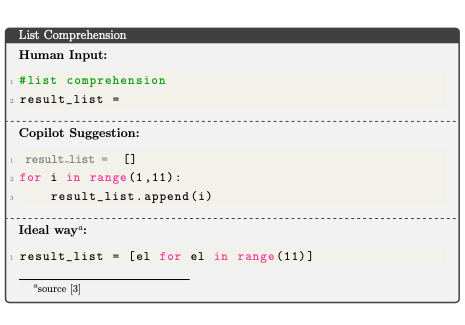
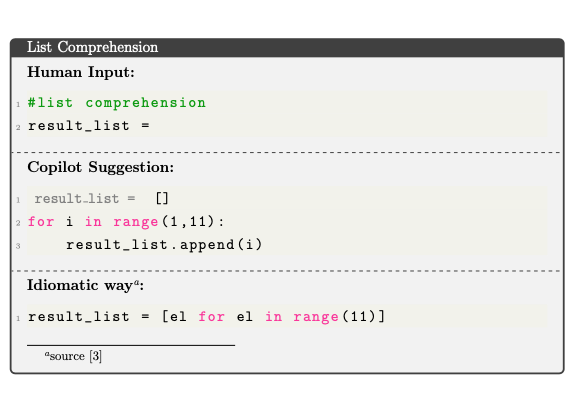
c1,2,3 first draft

Changed region(s): [[0.0, 0.0615, 0.9935, 0.9538]]

diff --git a/chapters/3/chapter_idioms.tex b/chapters/3/chapter_idioms.tex
@@ -1,0 +1,41 @@
+\startchapter{Language Idioms}
+\label{chapter:idioms}
+
+\section{Introduction}
+In this chapter, We begin by explaining our approach to \textbf{RQ-1.1} (How do \cct{} manage programming idioms?). To achieve this, we conduct an exploratory study to find if \cct{} tools like Copilot suggest the optimal way in their suggestions. It is shown that Copilot's base model Codex performs best in python programming language~\cite{copilot}. So, we chose to test Copilot on python programming language idioms.
+
+In section~\ref{methodology}, we describe our sampling approach to collecting python idioms and evaluation method used to compare copilot suggestions to the optimal way listed in python idioms. In section~\ref{secidioms}, we show the results of the study comparing Copilot suggestions and idioms in python programming language. We observe that Copilot performs poorly in suggesting the optimal way in its suggestions. 
+\section{Pythonic Idioms}
+The definition for the term \emph{Pythonic} in Python found in official Python glossary\footnote{\url{https://docs.python.org/3/glossary.html\#term-pythonic}} as follows:
+
+\begin{quote}
+    An idea or piece of code which closely follows the most common idioms of the Python language, rather than implementing code using concepts common to other languages. For example, a common idiom in Python is to loop over all elements of an iterable using a for statement. Many other languages do not have this type of construct, so people unfamiliar with Python sometimes use a numerical counter instead, as opposed to the cleaner, pythonic method.
+\end{quote}
+
+This definition indicates a broad meaning, referring to both concrete code, but also \emph{Ideas} in general sense. Many Python developers argue that coding the \emph{pythonic way} is the most accepted way to code by the Python community~\cite{Alexandru2018}. We consider an \emph{idiom} to be any reusable abstraction that makes Python code more readable by shortening or added syntactic sugar. Idioms can also be more efficient than a basic solution and some idioms are both more readable and more efficient.
+
+We sampled idioms from the work of Alexandru et al.~\cite{Alexandru2018}, which identified idioms from presentations given by renowned Python developers that frequently mention Idioms, e.g., Hettinger~\cite{hettinger} and Jeff Knupp~\cite{knupp} and popular Python books, such as ``Pro Python''~\cite{Alchin2010}, ``Fluent Python''~\cite{fluent}, ``Expert Python Programming''~\cite{expert}.
+
+\section{Methodology}
+\label{methodology}
+In this Section, We explain the methodology we used to address \textbf{RQ-1.1} (How do \cct{} manage programming idioms?), including how the idioms were sampled (Section~\ref{sampling}), what was the input for Copilot (Section~\ref{input}) and how Copilot suggestions are evaluated (Section~\ref{evaluation}). All of the following analysis was carried out using Copilot extension in Visual Studio Code. We use the most recent stable release of Copilot extension (version number 1.30.6165) in Visual Studio Code.
+
+\subsection{Sampling Approach}
+\label{sampling}
+To give the best chance for Copilot to suggest the optimal way, we sampled the top ten most frequent idioms used in open source projects. So that, Copilot will have the optimal way more frequently in its training data. However, Copilot is closed source and we cannot determine if the frequency of code snippet in training data affects Copilot suggestions in any way. Research by GitHub shows that Copilot can sometimes recite from its training data in ``generic contexts"\footnote{\url{https://github.blog/2021-06-30-github-copilot-research-recitation/}}, which may lead to potential challenges like licence infringements~(shown in section~\ref{challenges}). Sampling the most frequently used idioms will also help understand if Copilot can recite idioms present in its training data~(GitHub public repositories), which is a desirable feature for \cct{}.
+
+\subsection{Study Setup}
+
+\subsubsection{Input to Copilot}
+\label{input}
+The input to Copilot consisted of the idiom title in the first line as a comment to provide context, and the input was restricted to being able to derive the ideal way~(idiomatic way) from the input. This is done to ensure Copilot is making the decision to suggest the good/bad way in its suggestions and not being restricted by the input to suggest a certain way. 
+
+This input style also mimics a novice user, who is unaware of the idioms and useful \cct{} should drive the novice user to use idiomatic ways to perform a task in their codebases.
+
+\subsubsection{Evaluation of Copilot suggestions}
+\label{evaluation}
+We considered Copilot suggested the optimal way if Copilot suggested the idiomatic way in the first suggestion, we assume that \cct{} like Copilot are productivity tools and user should be saving time as opposed to writing the optimal way without using \cct{}, scrolling through all the suggestions to deduce the optimal way defeats this purpose. For this reason, we restricted ourselves to first suggestion. However, we do note if the idiomatic way appeared any of the top 10 suggestions currently viewable in Copilot interface. 
+
+% including sections in other files.
+\input{chapters/3/idioms}
+\input{chapters/3/summary}

diff --git a/chapters/4/chapter_smells.tex b/chapters/4/chapter_smells.tex
@@ -1,34 +1,33 @@
-\startchapter{Language Idioms}
-\label{chapter:idioms}
+\startchapter{Code Smells}
+\label{chapter:smells}
 
 \section{Introduction}
 Useful \AISE{} tools should always suggest the optimal way as its first suggestion. In this chapter, we test if \cop{} suggests the optimal way. 
-We begin by explaining our approach to \textbf{RQ-1.2} (How do \cct{} manage programming Idioms?). 
+We begin by explaining our approach to \textbf{RQ-1.1} (How do \cct{} manage to write non-smelly code?).
 
 To achieve this, we conduct an exploratory study to find how often does current \cct{} suggest the optimal way in their suggestions. In section~\ref{methodology}, we describe our methodology for the two categories under study: python idioms (Section~\ref{secidioms}) and best practices in javascript (Section~\ref{bp}).
 We then compare the suggestions generated by \cop{} and previous works on best practices in Python and JavaScript. We report on how many times \cop{} suggested the optimal way. 
 
 We find that \cop{} performs poorly in suggesting the optimal way in its suggestions. Further, in section~\ref{evolution}, we provide a detailed discussion on how best practices change over time with an example from Asynchronous JavaScript and outline the difficulties of a \cct{} to keep updating its suggestions and reflect the current best practice.
 
+
 \section{Methodology}
-\label{methodology}
-In this Section, We explain the methodology we used to address \textbf{RQ-1.2} (How do \cct{} manage programming Idioms and Best Practices?), including how the best practices were sampled (Section~\ref{sampling}), what was the input for copilot (Section~\ref{input}) and how is the suggestion evaluated (Section~\ref{evaluation}). All of the following analysis was carried out using \cop{} extension in Visual Studio Code. We use the most recent stable release of Copilot extension (version number todo) in Visual Studio Code.
+\label{smells:methodology}
+In this Section, We explain the methodology we used to address \textbf{RQ-1.2} (How do \cct{} manage programming Idioms and Best Practices?), including how the best practices were sampled (Section~\ref{smells:sampling}), what was the input for copilot (Section~\ref{smells:input}) and how is the suggestion evaluated (Section~\ref{smells:evaluation}). All of the following analysis was carried out using \cop{} extension in Visual Studio Code. We use the most recent stable release of Copilot extension (version number todo) in Visual Studio Code.
 
 \subsection{Sampling Approach}
-\label{sampling}
+\label{smells:sampling}
 To give the best chance for \cop{} to suggest the optimal way, we sampled the top ten most frequent idioms used in open source projects. So that, \cop{} will have the optimal way more frequently in its training data. However, \cop{} is closed source and we cannot determine if the frequency of code snippet in training data affects \cop{} suggestions in any way. Research by GitHub shows that Copilot can sometimes recite from its training data in ``generic contexts"\footnote{\url{https://github.blog/2021-06-30-github-copilot-research-recitation/}}, which may lead to Licence Infringements shown in Section~\ref{challenges}. Sampling the most frequently used Idioms will also help understand if copilot can recite idioms, which is the ideal behaviour for \cct{}.
 
 \subsection{Study Setup}
 
 \subsubsection{Input to \cop{}}
-\label{input}
+\label{smells:input}
 The input to \cop{} consisted of the idiom title as the first comment to provide context, and the input was restricted to being able to derive the ideal way from the input. This is done to ensure \cop{} is making the decision to suggest the good/bad way in its suggestions. This input style also mimics a novice user, who is unaware of the idioms and useful \cct{} should drive the novice user to use best practices.
 
 \subsubsection{Evaluation}
-\label{evaluation}
+\label{smells:evaluation}
 We considered \cop{} suggested the optimal way if Copilot suggested the best practice in the first suggestion, In this case, we considered \cct{} like \cop{} as productivity tool and user should be saving time as opposed to writing the optimal way without using \cct{}, Scrolling through all the suggestions to deduce the optimal way defeats this purpose. For this reason, We restricted ourselves to first suggestion. However, we do note if the best practice appeared any of the top 10 suggestions currently viewable in \cop{} interface. 
 
-% including sections in other files.
-\input{chapters/4/idioms}
-\input{chapters/4/async}
+\input{chapters/4/best_practices}
 \input{chapters/4/summary}

diff --git a/chapters/3/idioms.tex b/chapters/3/idioms.tex
@@ -1,0 +1,81 @@
+\section{Results}
+\label{secidioms}
+Using the methodology described in section~\ref{methodology}, we picked the top 10 most popular python idioms from work of Alexandru et al.~\cite{Alexandru2018} and compared Copilot suggestions when prompted with a input method~(shown in section~\ref{input}) and evaluated using methodology shown in section~\ref{evaluation}. 
+
+Copilot suggested the idiomatic approach as the first suggestion in 2 of the 10 idioms we tested i.e., 2 out of 10 instances Copilot had the recommended way as its top suggestion. However, 4 out of those remaining 8 Idioms had the idiomatic way in Copilot's top 10 suggestions. Copilot did not have the idiomatic way in any of its top 10 suggestions for 4 idioms out of 10 idioms we tested.
+
+Table~\ref{tab:all_idioms} shows the list of all the 10 idioms we tested and the ranking of the idiomatic way in Copilot suggestions (if it exists).
+
+\renewcommand{\arraystretch}{1.7}
+\begin{table}[ht]
+    \centering
+    \begin{tabular}{|L|c|}
+    \hline
+         \textbf{Idiom Title} & \textbf{Copilot Suggestion Matched?} \\
+         & (out of 10 suggestions) \\
+         \hline
+         List comprehension & No \\
+         \hline
+         Dictionary comprehension & No \\
+         \hline
+         Mapping & 9\textsuperscript{th} \\
+         \hline
+         Filter &  7\textsuperscript{th} \\
+         \hline
+         Reduce & 9\textsuperscript{th} \\
+         \hline
+         List enumeration & No \\
+         \hline
+         Set comprehension & 1\textsuperscript{th} \\
+         \hline
+         Read and print from a file & 5\textsuperscript{th} \\
+         \hline
+         Add int to all list numbers & No \\
+         \hline
+         If condition check value & 1\textsuperscript{th} \\
+         \hline
+    \end{tabular}
+    \caption{List of all python idioms tested on Copilot.}
+    \label{tab:all_idioms}
+\end{table}
+
+
+Figure~\ref{fig:idioms_1} shows the example of list comprehension idiom, showing user input (i.e., human input), the top suggestion by Copilot and the idiomatic way from Alexandru et al.~\cite{Alexandru2018}.
+
+\begin{figure}[hbt!]
+    \centering
+    \includegraphics[width=\linewidth]{Figures/idioms_1.png}
+    \caption{List Comprehension Idiom and Copilot Suggestion}
+    \label{fig:idioms_1}
+\end{figure}
+
+The results show that Copilot did not suggest the optimal way as its first suggestion in the majority of the idioms we tested. This shows that current \cct{} like Copilot cannot suggest the idiomatic way in every suggestion even though they are the top most frequently used python idioms in public repositories on GitHub~\cite{Alexandru2018}. 
+
+Copilot being closed source we cannot investigate the potential reasons behind this behavior. However, One plausible explanation for this behavior is that idiomatic ways may not be as frequent as non-idiomatic way in Copilot's training data of public repositories on GitHub, making the non-idiomatic way rank higher than the idiomatic way.
+
+\cct{} like Copilot should learn to detect idiomatic ways in public repositories and rank them higher than the most frequently used way in public repositories, so that the first suggestion would be the idiomatic way rather than the non-idiomatic way, which is the desirable way for \cct{} like Copilot. For the scope of this thesis, we leave resolving this problem as future work.
+
+% \begin{tcolorbox}[title=List Comprehension,boxsep=.25mm]
+%     %https://tex.stackexchange.com/questions/337909/tcolorbox-tcbline-style
+% \textbf{Human Input:}
+% \begin{lstlisting}[language={Python}]
+% #list comprehension
+% result_list = 
+% \end{lstlisting}
+% \tcbline
+% \textbf{Copilot Suggestion:}
+% \begin{lstlisting}[language=Python,escapechar=\%]
+% % \noindent\textcolor{gray}{result\_list  =} % []
+% for i in range(1,11):
+%     result_list.append(i)
+% \end{lstlisting}
+% \tcbline
+% \textbf{Idiomatic way\footnote{source \cite{Alexandru2018}}:}
+% \begin{lstlisting}[language=Python]
+% result_list = [el for el in range(11)]
+% \end{lstlisting}
+% \end{tcolorbox}
+
+%%%%%% TODO: remember to update the screenshot if the source citation is different from the citation in the text %%%%%%
+
+All the Idioms shown in Table~\ref{tab:all_idioms} can be found in the \repl{} including the code used as input (i.e., human input), the top suggestion by Copilot and the idiomatic way suggested in Alexandru et al.~\cite{Alexandru2018}.

diff --git a/chapters/1/rq.tex b/chapters/1/rq.tex
@@ -1,7 +1,7 @@
 \section{Problem Statement and Research Questions}
 The overarching goal of this study is to:
 \begin{quote}
-    Identify the boundaries of the capabilities of GitHub Copilot. Toward this goal, we compare Copilot code suggestions against best practices and language Idioms. Additionally, we introduce a simple taxonomy of software abstraction hierarchies to show the capabilities of current \cct{}. 
+    Identify the boundaries of the capabilities of GitHub Copilot. Toward this goal, we compare Copilot code suggestions against language idioms and code smells. Additionally, we introduce a simple taxonomy of software abstraction hierarchies to show different capability levels of \cct{}. 
 \end{quote}
 
 As discussed in the previous sections, The capabilities of current \cct{} like Copilot are unknown, identifying the limitations of \cct{} would help the users use the tool effectively and focus more on the tasks \cct{} are shown to be not useful. The objective of this study is to achieve a better understanding of the areas Copilot performs better than a human and the areas where Copilot performs worse than a human. We conduct an exploratory study with the following research objectives:
@@ -12,14 +12,14 @@ As discussed in the previous sections, The capabilities of current \cct{} like C
   \textbf{Approach -} We use GitHub's Copilot as a representative for \cct{}. We explore Copilot's code suggestions for code smells and usage of language idioms. We conduct additional investigation to determine the current boundaries of Copilot by introducing a taxonomy of software abstraction hierarchies where ‘basic programming functionality’ such as code compilation and syntax checking is at the least abstract level. Software architecture analysis and design is at the most abstract level. 
   
   \item[\textbf{RQ-1.1: }]
-  \textbf{How do \cct{} manage manage to write non-smelly code?} \\
-\textbf{Approach -} We examine Copilot code suggestions on 10 different best practices sampled from AirBNB JavaScript coding style guide~\cite{airbnb_code}. We investigate how Copilot's top code suggestion compares to the best practices in AirBNB JavaScript coding style guide~\cite{airbnb_code}. Additionally, we report if the best practice is listed in any of the 10 viewable suggestions from Copilot. 
-  
-  \item[\textbf{RQ-1.2: }]
   \textbf{How do \cct{} manage programming Idioms?} \\
   \textbf{Approach -} We examine Copilot code suggestions on top 10 idioms used in open source projects sampled from work of Alexandru et al.~\cite{Alexandru2018}, which identified idioms from presentations given by renowned Python developers. We investigate how Copilot's top code suggestion compares to Python idioms from Alexandru et al.~\cite{Alexandru2018}. In addition, we report if the idiom is listed in any of the 10 viewable suggestions from Copilot.
   
+  \item[\textbf{RQ-1.2: }]
+  \textbf{How do \cct{} manage manage to write non-smelly code?} \\
+\textbf{Approach -} We examine Copilot code suggestions on 10 different best practices sampled from AirBNB JavaScript coding style guide~\cite{airbnb_code}. We investigate how Copilot's top code suggestion compares to the best practices in AirBNB JavaScript coding style guide~\cite{airbnb_code}. Additionally, we report if the best practice is listed in any of the 10 viewable suggestions from Copilot. 
+ 
   \item[\textbf{RQ-2: }]
   \textbf{Given the current boundary, how far is it from suggesting design decisions which seem much beyond the boundary??} \\
-  \textbf{Approach -} Based on our findings in RQ-1, we discuss how far current \cct{} are from the design level in our taxonomy. We look at current limitations of Copilot and provide recommendations on how to make current \cct{} reach design abstraction level. Additionally, we report on ethical considerations, explainability and control of tools like Copilot. 
+  \textbf{Approach -} Based on our findings in RQ-1, we discuss how far current \cct{} are from the design level in our taxonomy. We look at current limitations of Copilot and provide recommendations on how to make current \cct{} reach design abstraction level. Additionally, we report on ethical considerations, explainability and control of \cct{} like Copilot. 
 \end{enumerate}

diff --git a/chapters/2/copilot.tex b/chapters/2/copilot.tex
@@ -17,14 +17,13 @@ Language modelling faces a difficult problem when it comes to code completion. T
 % Due to this restriction, the Pointer Mixture Network, which predicts words either from the global vocabulary or copies one from local context, was introduced~\cite{ccnlm}. It combines Attention (long dependencies) and Ptr-Nets (local dependencies). In addition, a modified version of the Attention mechanism using an AST-based programming language was developed in this study~\cite{ccnlm}.
 
 \subsection{GitHub Copilot}
-In-IDE code completion tools have improved a lot in recent years, from suggesting variables or method calls from user code bases~\cite{mandelin2005} to suggesting entire code blocks~\cite{Ciniselli2021}. 
 NLM-based approaches like Copilot have done remarkably well on improving the state-of-the-art in code completion, solving programming contest style problems~\cite{empirical_eval}.
 GitHub's Copilot, which was released as technical preview in June 2021, is an in-IDE recommender system that makes use of OpenAI's Codex model, which employs a GPT-3 model, and is then optimized on code from GitHub to produce code suggestions~\cite{Copilot-web}. 
 While many other research projects have attempted to do something similar~\cite{codesearch, natural, coacor}, Copilot's availability and smooth integration with GitHub's backup have unavoidably generated a ``hype" in the tech community, with many developers either already using it through its technical preview or started using it after its recent public launch as a paid subscription~\cite{Copilot-web}. 
 
 Vaithilingam et al.~\cite{Vaithilingam2022} conducted an exploratory study of how developers use Copilot, finding that Copilot did not solve tasks more quickly, but did save time in searching for solutions. More importantly, Copilot seemed to solve the writer's block problem of not knowing how to get started. This notion of seeding an initial, if incorrect, solution is often how design proceeds in software. 
 
-Currently, Copilot provides three key functionalities: autofill for repetitious code, tests suggested based on implementation code, and comment to code conversion~\cite{Copilot-web}. For the scope of this thesis, we focus on the first feature, which turns comments into code when a user adds a remark describing the logic they want to utilise~\cite{Copilot-web}. Although a Copilot suggestion can be triggered by by adding a comment in natural language, it is advised that users add descriptive comments and meaningful names for function parameters in order to receive useful recommendations~\cite{Copilot-web}. The Human Input is the concatenation of the natural language comment, function name, and function parameters.
+Currently, Copilot provides three key functionalities: autofill for repetitious code, tests suggested based on implementation code, and comment to code conversion~\cite{Copilot-web}. For the scope of this thesis, we focus on the feature of turning comments into code when a user adds a remark describing the logic they want to utilise~\cite{Copilot-web}. Although a Copilot suggestion can be triggered by adding a comment in natural language, it is advised that users add descriptive comments and meaningful names for function parameters in order to receive useful recommendations~\cite{Copilot-web}. The human input is the concatenation of the natural language comment, function name, and function parameters.
 
 Recent work shows initial investigations on how large language models for code can add architecture tactics by using program synthesis~\cite{Shokri2021} and structure learning~\cite{Karmakar2021}.
 Our approach complements these earlier approaches by focusing on moving beyond code completion, where most research effort is currently concentrated.

diff --git a/chapters/2/NLM.tex b/chapters/2/NLM.tex
@@ -1,5 +1,5 @@
 \subsection{Neural Language Models (NLMs)}
-The idea underlying NN LMs is to project words from a corpus onto a continuous space and then apply a probability estimator that operates on that space. Initially, feedforward architecture was utilised in neural networks for language modelling~\cite{advancesnlm}.
+The idea underlying NLMs is to project words from a corpus onto a continuous space and then apply a probability estimator that operates on that space. Initially, feedforward architecture was utilised in neural networks for language modelling~\cite{advancesnlm}.
 
 Feedforward neural networks(FFNN) are used to train a statistical model of the distribution of word sequences. Feedforward NN LMs have the disadvantage of not having longer distance dependencies since they are essentially N-gram language models~\cite{advancesnlm}. However, unlike N-grams, Feedforward NN LMs do not require a lower order ((N-1)-gram) because the probabilities are interpolated for each feasible sequence of length N-1~\cite{largenlm}.
 
@@ -20,7 +20,7 @@ LSTM networks~\cite{lstm} are a modified version of RNNs. There are three gates 
 
 The Encoder-Decoder RNN is made for sequence-to-sequence prediction, which involves taking a real-valued sequence and producing a prediction for another real-valued sequence. Machine translation is an example of a sequence to sequence prediction application. The fixed length intermediate representation has been demonstrated to be a performance bottleneck for encoder-decoder models, This may occur if exceptionally long sentences must be mapped into a fixed-length representation; performance degrades as sentence length rises~\cite{encoder}.
 
-the attention mechanism is aimed at improving performance. It maps the words in the input sequence into words, which are then sent to the decoder, as opposed to mapping the entire input sequence into a fixed-length vector. As a result, only a select few (the most suitable) vectors are selected, avoiding the need to compress arbitrary long words into a fixed-length vector. The decoder intuitively focuses on specific segments of the input stream (hence the name Attention Mechanism). Self attention is an extension of attention in which relationships between sequence positions are computed to create a representation of the sequence~\cite{attention}.
+The attention mechanism is aimed at improving performance. It maps the words in the input sequence into words, which are then sent to the decoder, as opposed to mapping the entire input sequence into a fixed-length vector. As a result, only a select few (the most suitable) vectors are selected, avoiding the need to compress arbitrary long words into a fixed-length vector. The decoder intuitively focuses on specific segments of the input stream (hence the name Attention Mechanism). Self attention is an extension of attention in which relationships between sequence positions are computed to create a representation of the sequence~\cite{attention}.
 
 \subsubsection{Transformer Models}
 The transformer architecture is built using stacked self-attention mechanisms. This is done in an effort to prevent recurrence, as the training of RNNs can not be parallelized. There are six levels in both the encoder and the decoder~\cite{attention}. A FFNN and a self-attention mechanism (looking both at previous and future tokens) are the two components found in each encoder layer. The decoder contains an additional attention mechanism that enables it to pay attention to specific encoder segments, in contrast to the encoder layer. 

diff --git a/chapters/2/cct.tex b/chapters/2/cct.tex
@@ -5,9 +5,9 @@ A variety of data science and machine learning methodologies were applied in the
 Statistical language models (LMs) are mathematical models that express a probability distribution across a set of words. From a training dataset, LMs learn the probability of word occurrences. LMs can predict the next word from a sequence of words based on the probability distribution of its training data. Most common LMs like N-grams are currently utilised to support many complicated models in modern approaches like Neural Language Models (NLMs).
 
 \subsubsection{N-grams}
-N-grams~\cite{ngram} are probabilistic language models represented by an (n-1)-order Markov source (a sequence of n-1 of random variables defined by a Markov chain). A Markov chain is based on the idea that the probability of the next word depends only on its n-1 predecessors. Since this property mostly holds for natural language, Markov source is a good approach for modeling natural language. In modern natural language processing applications, N-grams are rarely employed as a stand-alone solution in modern natural language processing applications, but rather as a support for a more complex model, which leads to issues like out of vocabulary (OOV) making them unsuitable for our domain. However, code completion tools tools like CACHECA~\cite{cacheca} and SLANG~\cite{slang} are based on N-grams.
+N-grams~\cite{ngram} are probabilistic language models represented by an (n-1)-order Markov source (a sequence of n-1 of random variables defined by a Markov chain). A Markov chain is based on the idea that the probability of the next word depends only on its n-1 predecessors. Since this property mostly holds for natural language, Markov source is a good approach for modeling natural language. In modern natural language processing applications, N-grams are rarely employed as a stand-alone solution in modern natural language processing applications, but rather as a support for a more complex model, which leads to issues like out of vocabulary (OOV) making them unsuitable for our domain. However, code completion tools tools like CACHECA~\cite{cacheca} and SLANG~\cite{slang} are based on N-grams. Vector word representations are introduced to tackle the drawbacks of N-grams.
 
-\subsection{Vector Word Representations}
+\subsubsection{Vector Word Representations}
 Each word in the vocabulary is represented as a real-valued feature vector in a vector word representation. Words that are semantically similar in such forms are similar. Vector word representations play an important role in Neural language models~\cite{mnlm}.
  
 N-grams are a simple statistical LM that is simple to comprehend and compute. However, It has no way of modeling multi sentence context and it cannot generalize to unseen data. Neural language models are introduced to tackle the drawbacks of LMs.

diff --git a/chapters/1/chapter_intro.tex b/chapters/1/chapter_intro.tex
@@ -7,7 +7,7 @@ Recent large-scale pre-trained language models such as Copilot~\cite{Copilot-web
 However, software engineering is much more than writing code, it involves complex challenges like choosing the best practices, avoiding code smells, using design patterns and many more decisions before writing code. 
 
 The scope of capabilities for \cct{} is uncertain. Identifying the nature of copilot capabilities when it comes to more complex challenges, i.e., \AISE{} (as opposed to development tasks, such as coding or programming problems). Delineating where \cct{} are currently best able to perform, and where more complex software engineering tasks overwhelm them is helpful in answering questions like 
-Exactly which software problems can current \cct{} solve? 
+exactly which software problems can current \cct{} solve? 
 If \cct{} makes a suggestion, is that suggestion accurate and optimal? Should a user intervene to correct it? But identifying these boundaries is a challenging task. In the next section, we discuss this challenge and the research opportunity that it creates as the motivation for this study.
 
 \section{Motivation}
@@ -17,7 +17,7 @@ The biggest challenge with using tools like Copilot is their training data, Thes
 
 Understanding the current limitations of Copilot will help developers use \cct{} effectively. The advantage of knowing where Copilot is good/bad lets users use these tools more efficiently by letting \cct{} take over where they excel and focus more on tasks where \cct{} are shown to have struggled with the quality of code suggestions.
 
-Another advantage of having a hierarchy of abstraction levels showing the current limitations of \cct{} could make code suggestions better in complex situations, shifting in research focus to make \cct{} better at tasks shown to have struggled with the quality of code suggestions, minimizing the input required by the user to make \cct{} create meaningful, quality suggestions.
+Another advantage of a taxonomy of software abstractions make code suggestions better in complex situations, shifting research focus to make \cct{} better at tasks shown to have struggled with the quality of code suggestions, minimizing the input required by the user to make \cct{} create meaningful, quality suggestions.
 
 In this thesis, we investigate the current limitations of Copilot with an empirical study on Copilot suggestions. Using the findings, we introduce a taxonomy of software abstraction hierarchy, modeled on the ideas in the SAE taxonomy and Koopman's extension for self-driving vehicles. The insights gained from this study can help developers understand how to best use tools like Copilot as well as provide insights to researchers trying to develop and improve the field of \cct{}.
 

diff --git a/chapters/1/contributions.tex b/chapters/1/contributions.tex
@@ -9,12 +9,12 @@ GitHub's Copilot is one such \cct{} that can generate code in a variety of langu
 given some context such as comments, function names, and surrounding code. As
 GitHub Copilot is the largest and most capable such model currently available. We base all our findings on GitHub's Copilot as a representative of \cct{} for this study.
 
-We begin by sampling 10 coding scenarios for detecting code smells from AirBNB JavaScript coding style guide~\cite{airbnb_code}, a widely used coding style and code review standard. We then compare and contrast Copilot's code suggestion for each scenario and report if Copilot suggested the best practice listed in AirBNB JavaScript coding style guide. 
-We also sampled top 10 language idioms used in open source projects from Alexandru et al.~\cite{Alexandru2018} and then compare and contrast Copilot's code suggestion for each idiom and report if Copilot suggested the idiom listed in Alexandru et al.~\cite{Alexandru2018}. We base our taxonomy of software abstraction hierarchies on the findings from Copilot suggestions on best practices and language idioms.
+We begin by sampling 10 coding scenarios for detecting code smells from AirBNB javascript coding style guide~\cite{airbnb_code}, a widely used coding style and code review standard. We then compare and contrast Copilot's code suggestion for each scenario and report if Copilot suggested the best practice listed in AirBNB JavaScript coding style guide. 
+We also sampled top 10 language idioms used in open source projects from Alexandru et al.~\cite{Alexandru2018} and then compare and contrast Copilot's code suggestion for each idiom and report if Copilot suggested the idiom listed in Alexandru et al.~\cite{Alexandru2018}. We base our taxonomy of software abstraction hierarchies on the findings from Copilot suggestions on language idioms and code smells.
 
 We then report on the current limitations of Copilot as a representative \cct{} and introduce a taxonomy of software abstraction hierarchies (see Figure~\ref{fig:taxonomy}), inspired from an analogous concept in the more developed (but still nascent) area of autonomous driving. We also present an example coding scenario for every level of abstraction in our taxonomy showing the requirements to be fulfilled by \cct{} to satisfy that level of abstraction.
 
-We conclude by providing guidelines for future development of \cct{} to reach design level of abstraction in our taxonomy and discuss the limitations of our work. 
+We conclude by providing discussion for future development of \cct{} to reach design level of abstraction in our taxonomy and discuss the limitations of our work. 
 
 \section{Contributions}
 

diff --git a/chapters/3/summary.tex b/chapters/3/summary.tex
@@ -1,4 +1,5 @@
 \section{Chapter Summary}
-In summary, we start this chapter by showing the methodology used in addressing \textbf{RQ-1.2} (How do \cct{} manage programming Idioms and Best Practices?). We first introduced the study setup with how the input to \cop{} was restricted and how the suggestion from \cop{} were evaluated. We sampled best practices in Python and Javascript and then compared it against \cop{} suggestions. 
+In summary, we start this chapter by showing the methodology used in addressing \textbf{RQ-1.1} (How do \cct{} manage programming idioms?). We first introduced the study setup with the input to Copilot and how it was restricted to deriving the idiomatic way from the input and how the suggestions from Copilot were evaluated. We sampled pythonic idioms from Alexandru et al.~\cite{Alexandru2018} and then compared it against Copilot suggestions. Based on results shown in Table~\ref{tab:all_idioms}, Copilot struggles to suggest the idiomatic ways in its suggestions. 
 
-Based on results shown in Table~\ref{tab:all_idioms} and \ref{tab:all_bp}, \cop{} struggles to suggest the best practices in its suggestions. In the next chapter (chapter~\ref{chapter:framework}), we illustrate our taxonomy on the hierarchy in \AISE{}, and delineate where \cct{} are currently best able to perform, and where more complex software engineering tasks overwhelm them.
+In this chapter, we showed that Copilot struggles to detect and most common idiomatic ways present in public repositories of GitHub and rank them higher than the non-idiomatic ways. The ideal behavior of \cct{} like Copilot in solving this problem is detecting common patterns present in code and rank them higher as the idiomatic ways for a task.
+In the next chapter (chapter~\ref{chapter:smells}), we look into how this ideal behavior can cause problems in the case of code smells, where common bad practices present in public repositories of GitHub can make \cct{} like Copilot introduce bad coding practices in its suggestions.

diff --git a/chapters/1/cct.tex b/chapters/1/cct.tex
@@ -1,4 +1,4 @@
 \section{\cct{}}
 In-IDE code completion tools have improved a lot in recent years, from suggesting variables or method calls from user code bases~\cite{mandelin2005} to suggesting entire code blocks~\cite{Ciniselli2021}. The deep learning resurgence has led to strong advances in the field of \cct{}. Pre-trained large language models such as GPT-3~\cite{Gpt3}, CodeBERT~\cite{codebert}, Codex~\cite{copilot}, AlphaCode~\cite{alphacode} have dramatically improved the state-of-the-art on a code completion tasks.
 
-Introduced in June 2021, GitHub's Copilot~\cite{Copilot-web} is an in-IDE recommender system that leverages OpenAI's Codex large language model (LLM)~\cite{copilot} which uses a GPT-3 model~\cite{Gpt3} and is then fine-tuned on code from GitHub to generate code suggestions that are uncannily effective and are able to perform above human average on programming contest problems~\cite{empirical_eval}. Copilot can generate code in a variety of languages given some context such as comments, function names, and surrounding code. Copilot is the largest and most capable such model currently available, we perform all our experiments on GitHub Copilot as a representative for \cct{}.
+Introduced in June 2021, GitHub's Copilot~\cite{Copilot-web} is an in-IDE recommender system that leverages OpenAI's Codex neural language model (NLM)~\cite{copilot} which uses a GPT-3 model~\cite{Gpt3} and is then fine-tuned on code from GitHub to generate code suggestions that are uncannily effective and are able to perform above human average on programming contest problems~\cite{empirical_eval}. Copilot can generate code in a variety of languages given some context such as comments, function names, and surrounding code. Copilot is the largest and most capable such model currently available, we perform all our experiments on GitHub Copilot as a representative for \cct{}.

diff --git a/chapters/1/outline.tex b/chapters/1/outline.tex
@@ -7,7 +7,7 @@ This thesis is organized as follows:
 \item[Chapter 3] introduces our study on Copilot's code suggestions for code smells. It then presents the results of comparison between Copilot's code suggestions and AirBNB JavaScript coding style guide~\cite{airbnb_code}.
 \item[Chapter 4] introduces our study on Copilot's code suggestions for language idioms. It then presents the results of comparison between Copilot's code suggestions and Python Language idioms from Alexandru et al.~\cite{Alexandru2018}.
 \item[Chapter 5] introduces taxonomy of software abstraction hierarchy, inspired from SAE autonomous driving safety levels. It then presents set of requirements for \cct{} to satisfy each level of abstraction.
-\item[Chapter 6] presents a discussion on future directions for \cct{} to reach design abstraction level in the taxonomy. It further introduces the existing tools in software engineering that can resolve some of the issues faced by using \cct{} like Copilot. We conclude by discussing the practical and research implications of this study and by identifying the limitations.
+\item[Chapter 6] presents a discussion on future directions for \cct{} to reach design abstraction level in the taxonomy. It further introduces the existing tools in software engineering that can resolve some of the issues faced by using \cct{} like Copilot. We conclude by discussing the implications and the limitations of this study.
 \item[Chapter 7] presents the conclusion of this research study.
 \end{description}
 
